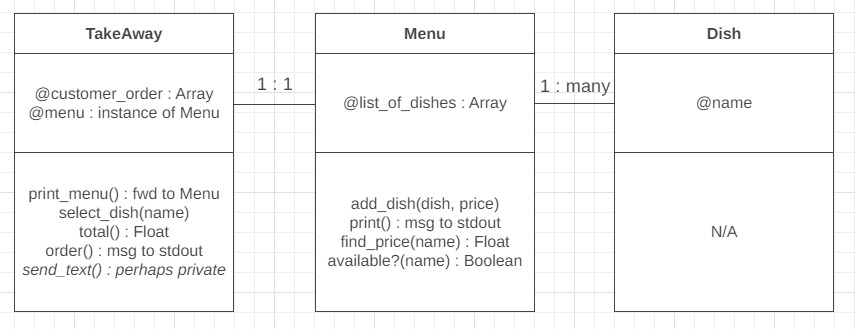
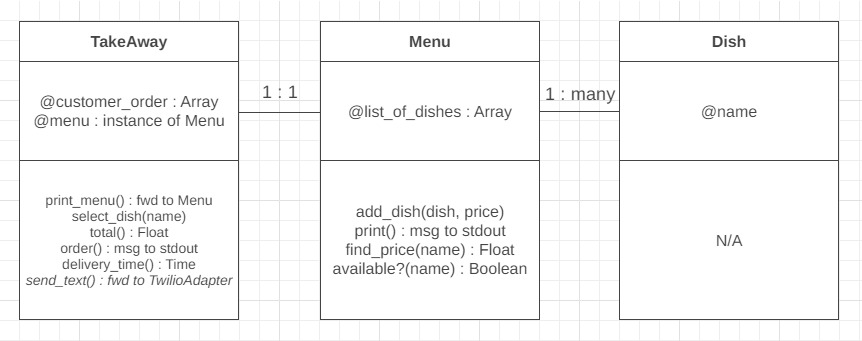
SMS confirmation added, updated readme

diff --git a/spec/takeaway_spec.rb b/spec/takeaway_spec.rb
@@ -53,7 +53,7 @@ describe TakeAway do
     context '#order' do
       before do
         allow(menu).to receive(:find_price).and_return(price1, price2, price3)
-        Timecop.freeze(Time.local(2021, 1, 1, 13, 0,0))
+        Timecop.freeze(Time.local(2021, 1, 1, 13, 0, 0))
       end
 
       after do
@@ -70,12 +70,13 @@ describe TakeAway do
         expect { subject.order }.to change { subject.customer_order.length }.to(0)
       end
 
-      xit 'sends a text to the customer' do
-        
-      end
+      # it 'sends a text to the customer' do
+      #   not sure how to test this, send_sms changed to private.
+      #   expect(subject).to respond_to :send_sms
+      # end
 
       it 'can calculate the estimated delivery time' do
-        expect(subject.delivery_time).to eq Time.local(2021,1,1,14,0,0)
+        expect(subject.delivery_time).to eq Time.local(2021, 1, 1, 14, 0, 0)
       end
     end
   end

diff --git a/lib/takeaway.rb b/lib/takeaway.rb
@@ -1,4 +1,5 @@
 require_relative 'menu'
+require_relative 'twilioadapter'
 
 class TakeAway
   attr_reader :customer_order
@@ -28,6 +29,7 @@ class TakeAway
     puts "That will be £#{total} please."
     clear_customer_orders
     puts 'Thanks for your order!'
+    send_text
   end
 
   def delivery_time
@@ -52,4 +54,9 @@ class TakeAway
     !@customer_order.empty?
   end
 
+  def send_text
+    message = "Thank you! Your order was placed and will be delivered before #{delivery_time}"
+    twilio = TwilioAdapter.new
+    twilio.send_sms(message)
+  end
 end

diff --git a/spec/spec_helper.rb b/spec/spec_helper.rb
@@ -1,5 +1,6 @@
 require 'simplecov'
 require 'simplecov-console'
+require_relative './support/fakesms'
 
 SimpleCov.formatter = SimpleCov::Formatter::MultiFormatter.new([
   SimpleCov::Formatter::Console,
@@ -13,5 +14,11 @@ RSpec.configure do |config|
     puts
     puts "\e[33mHave you considered running rubocop? It will help you improve your code!\e[0m"
     puts "\e[33mTry it now! Just run: rubocop\e[0m"
+  end
+end
+
+RSpec.configure do |config|
+  config.before(:each) do
+    stub_const("Twilio::REST::Client", FakeSMS)
   end
 end

diff --git a/spec/support/fakesms.rb b/spec/support/fakesms.rb
@@ -1,0 +1,20 @@
+# rails class attribute accessor is cherry pickable, so requiring it here. 
+require 'active_support/core_ext/class/attribute_accessors'
+
+class FakeSMS
+  Message = Struct.new(:from, :to, :body)
+
+  cattr_accessor :messages
+  self.messages = []
+
+  def initialize(_account_sid, _auth_token)
+  end
+
+  def messages
+    self
+  end
+
+  def create(from:, to:, body:)
+    self.class.messages << Message.new(from: from, to: to, body: body)
+  end
+end

diff --git a/lib/twilioadapter.rb b/lib/twilioadapter.rb
@@ -1,0 +1,15 @@
+require 'twilio-ruby'
+require 'dotenv/load'
+
+class TwilioAdapter
+  
+  def send_sms(message)
+    client = Twilio::REST::Client.new(ENV['TWILIO_ACCOUNT_SID'], ENV['TWILIO_AUTH_TOKEN'])
+
+    client.messages.create(
+      from: ENV['TWILIO_NUMBER'],
+      to: ENV['MOBILE_NUMBER'],
+      body: message,
+    )
+  end
+end

diff --git a/README.md b/README.md
@@ -149,6 +149,7 @@ A Makers Week 2 solo weekend challenge.
 | | select_dish(name) | 
 | | total() : Float | 
 | | order() : msg to stdout | 
+| | delivery_time() : Time |
 | | send_text() : perhaps private| 
 _depends on Menu_ <br>
 
@@ -178,11 +179,12 @@ bundle install
 ```
 
 ### .env variables
-Create a .env file at the root of the project folder, then include the following with replaced with your personal details:
+Create a .env file at the root of the project folder, then include the following with replaced with your personal details (please use +44 format in UK):
 ```
 TWILIO_ACCOUNT_SID=your_twilio_account_sid_here
 TWILIO_AUTH_TOKEN=your_twilio_auth_token_here
 MOBILE_NUMBER=your_number_here
+TWILIO_NUMBER=your_twilio_number_here
 ```
 
 ### To run feature tests in `irb`
@@ -199,13 +201,32 @@ menu.add_dish(dish_2, 3.19)
 menu.add_dish(dish_3, 3.89)
 takeaway = TakeAway.new(menu)
 ```
-Some demos here:
+
+See a list of dishes on the menu
 ```
-takeaway.print_menu # => gives us the menu
-takeaway.select_dish(dish_1)
-takeaway.select_dish(dish_1)
-takeaway.select_dish(dish_2) 
+takeaway.print_menu
+```
+
+select dishes on the menu
+```
+takeaway.select_dish("McNuggets")
+takeaway.select_dish("Big Mac")
+takeaway.select_dish("Big Mac") 
+```
+
+check order
+```
 takeaway.customer_order # => should give the list of dish objects
+```
+
+check total
+```
+takeaway.total
+```
+
+place order
+```
+takeaway.order
 ```
 
 ## Approach
@@ -236,9 +257,16 @@ takeaway.customer_order # => should give the list of dish objects
   * trying to get the total when no dishes selected
   * trying to make an order when no dishes selected
 
+**Twilio text confirmation**
+* I implemented a `TwilioAdapter` class that is responsible for sending the SMS. It instantiates the Twilio Client when `send_sms` is called.
+* When a takeaway is asked to make an order, it creates a new instance of `TwilioAdapter` and tells it to `send_sms` with the message "Thank you! Your order was placed and will be delivered before #{delivery_time}" (thus forwarding the responsibility). 
+* I am not sure how to unit test this functionality, but it seems to work in feature test.
+* In order to prevent real SMS messages from being sent during the RSpec tests, I added a stub to the `spec_helper` to replace `Twilio::REST::Client` with a mocked version of it called `FakeSMS`.
+
 **Final checks**
-* feature test
-* check that RSpec unit tests work on each class in isolation
+* Feature tested
+* Checked that RSpec unit tests work on each class in isolation
+* Linted with rubocop, 2 offences for unannotated tokens ignored. 
 
 ## Files
 | File    | Description |
@@ -246,14 +274,24 @@ takeaway.customer_order # => should give the list of dish objects
 | README.md  | this readme page :) |
 |  |  |
 |  |  |
-|  |  |
+| ./spec/support/fakesms.rb | Mocked Twilio client |
 | **all other files** | **as forked from original repo** |
 
 ## TODO
 
 * What if someone tries to add a non-dish to an instance of `Menu`? How would we TDD this in RSpec given that instance_doubles (a verifying double) of `Dish` does not return true when asking it if it `is_a? Dish`
 * Test coverage on `TakeAway` `print_menu` method is not 100%, is it necessary to ensure test coverage as the responsibility should depend on `Menu` class? Not sure what matchers we can use here. 
+* Should the `delivery_time` method be public or private? - I kept as public so that it could also be tested for the correct time, but think it should be a private method.
+* How to test the `TwilioAdapter` class (Twilio API)? Is it necessary? How to test that the program sends out a message in text format in RSpec? Is it necessary to unit test `send_text` private method in `TakeAway` class? How can we be confident that we are meeting the needs of the user story?
+* Investigate why unannotated tokens are unpreferable, for example:
+```
+def dish_price(item)
+    '%.2f' % item[:price]
+  end
+```
+* (Future) commit more often (after each unit test pass/refactor) and better naming. 
+
+
 * Review RSpec context block naming & structure, improvements to refactor RSpec tests using DRY principle.
-* Commit more often and at sensible points
 * Update description on files in the repo
-* Update demos for usage in IRB
+
